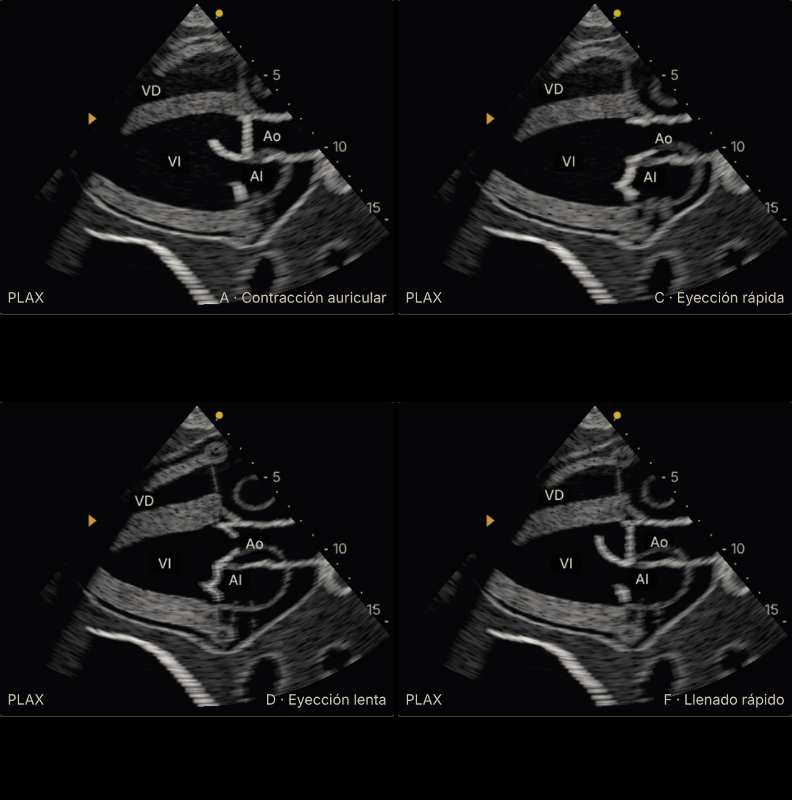
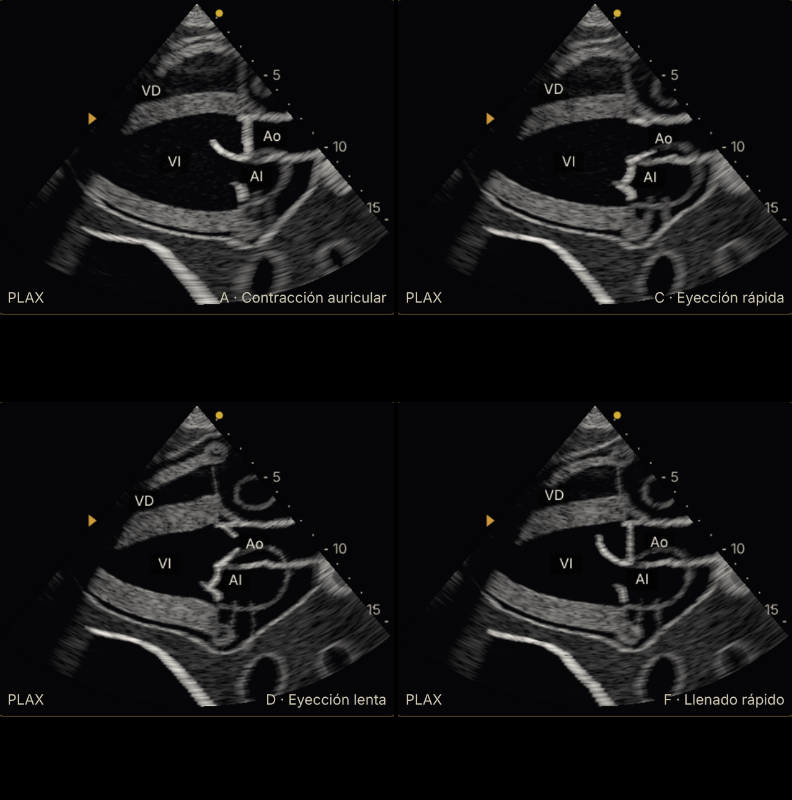
mv-eco-2a5 paso 6: rejuicio de realismo 9,50 (pasa el 9,5)
Claude-Session: https://claude.ai/code/session_01QiKC3AgYADeMutygoj3HRu

diff --git a/autonomo/bloques/mv-eco/capturas-realismo/mov/cifras-mov-doppler.md b/autonomo/bloques/mv-eco/capturas-realismo/mov/cifras-mov-doppler.md
@@ -57,7 +57,40 @@ Origen: «monitor» = texto que enseña la app (#cv-l-vi, #cv-d-resultado, #cv-m
 - TAPSE: 9.1 mm  _[anatomia.mjs]_
 
 ## mov-tep-a4c (tep, g=1, a4c; recortes izquierda→derecha, arriba→abajo: A, C, D, F)
-- A · telediástole: VI 29 mL · 2 mmHg · VD 218 mL · 17 mmHg · Ao 58 mmHg · AP 23 · rótulo «A · Contracción auricular»  _[monitor]_
+- A · telediástole: VI 30 mL · 2 mmHg · VD 218 mL · 17 mmHg · Ao 57 mmHg · AP 23 · rótulo «A · Contracción auricular»  _[monitor]_
+- C · sístole media: VI 39 mL · 64 mmHg · VD 207 mL · 29 mmHg · Ao 63 mmHg · AP 30 · rótulo «C · Eyección rápida»  _[monitor]_
+- D · fin de sístole: VI 25 mL · 64 mmHg · VD 198 mL · 37 mmHg · Ao 65 mmHg · AP 39 · rótulo «D · Eyección lenta»  _[monitor]_
+- F · llenado rápido: VI 43 mL · 3 mmHg · VD 218 mL · 17 mmHg · Ao 56 mmHg · AP 21 · rótulo «F · Llenado rápido»  _[monitor]_
+- VTD (VI, máximo del latido): 46 mL  _[motor.onda (volumen del VI)]_
+- VTS (VI, mínimo del latido): 24 mL  _[motor.onda (volumen del VI)]_
+- FEVI: 47 %  _[derivado (VTD−VTS)/VTD]_
+- Último latido: PA 66/53 (PAM 59) · FC 118 · GC 2.4 L/min · PVC 9  _[monitor]_
+- TAPSE: 6.7 mm  _[anatomia.mjs]_
+
+## mov-normal-a4cvd (normal, a4cVd; recortes izquierda→derecha, arriba→abajo: A, C, D, F)
+- A · telediástole: VI 119 mL · 10 mmHg · VD 138 mL · 6 mmHg · Ao 72 mmHg · AP 13 · rótulo «A · Contracción auricular»  _[monitor]_
+- C · sístole media: VI 88 mL · 97 mmHg · VD 119 mL · 18 mmHg · Ao 95 mmHg · AP 15 · rótulo «C · Eyección rápida»  _[monitor]_
+- D · fin de sístole: VI 47 mL · 103 mmHg · VD 76 mL · 20 mmHg · Ao 104 mmHg · AP 21 · rótulo «D · Eyección lenta»  _[monitor]_
+- F · llenado rápido: VI 71 mL · 4 mmHg · VD 87 mL · 2 mmHg · Ao 86 mmHg · AP 18 · rótulo «F · Llenado rápido»  _[monitor]_
+- VTD (VI, máximo del latido): 120 mL  _[motor.onda (volumen del VI)]_
+- VTS (VI, mínimo del latido): 45 mL  _[motor.onda (volumen del VI)]_
+- FEVI: 62 %  _[derivado (VTD−VTS)/VTD]_
+- Último latido: PA 105/67 (PAM 86) · FC 69 · GC 5.0 L/min · PVC 4  _[monitor]_
+- TAPSE: 23 mm  _[anatomia.mjs]_
+
+## mov-hp-a4cvd (hpcronica, g=1, a4cVd; recortes izquierda→derecha, arriba→abajo: A, C, D, F)
+- A · telediástole: VI 59 mL · 9 mmHg · VD 227 mL · 20 mmHg · Ao 70 mmHg · AP 43 · rótulo «A · Contracción auricular»  _[monitor]_
+- C · sístole media: VI 49 mL · 82 mmHg · VD 214 mL · 64 mmHg · Ao 81 mmHg · AP 68 · rótulo «C · Eyección rápida»  _[monitor]_
+- D · fin de sístole: VI 27 mL · 84 mmHg · VD 201 mL · 99 mmHg · Ao 84 mmHg · AP 99 · rótulo «D · Eyección lenta»  _[monitor]_
+- F · llenado rápido: VI 29 mL · 6 mmHg · VD 195 mL · 20 mmHg · Ao 74 mmHg · AP 55 · rótulo «F · Llenado rápido»  _[monitor]_
+- VTD (VI, máximo del latido): 60 mL  _[motor.onda (volumen del VI)]_
+- VTS (VI, mínimo del latido): 26 mL  _[motor.onda (volumen del VI)]_
+- FEVI: 56 %  _[derivado (VTD−VTS)/VTD]_
+- Último latido: PA 86/67 (PAM 76) · FC 94 · GC 3.0 L/min · PVC 16  _[monitor]_
+- TAPSE: 9.1 mm  _[anatomia.mjs]_
+
+## mov-tep-a4cvd (tep, g=1, a4cVd; recortes izquierda→derecha, arriba→abajo: A, C, D, F)
+- A · telediástole: VI 30 mL · 2 mmHg · VD 218 mL · 17 mmHg · Ao 57 mmHg · AP 23 · rótulo «A · Contracción auricular»  _[monitor]_
 - C · sístole media: VI 39 mL · 64 mmHg · VD 207 mL · 29 mmHg · Ao 63 mmHg · AP 30 · rótulo «C · Eyección rápida»  _[monitor]_
 - D · fin de sístole: VI 25 mL · 64 mmHg · VD 198 mL · 37 mmHg · Ao 65 mmHg · AP 39 · rótulo «D · Eyección lenta»  _[monitor]_
 - F · llenado rápido: VI 43 mL · 3 mmHg · VD 218 mL · 17 mmHg · Ao 56 mmHg · AP 21 · rótulo «F · Llenado rápido»  _[monitor]_
@@ -80,26 +113,26 @@ Origen: «monitor» = texto que enseña la app (#cv-l-vi, #cv-d-resultado, #cv-m
 - Último latido: PA 66/53 (PAM 59) · FC 118 · GC 2.4 L/min · PVC 9  _[monitor]_
 
 ## d-mitral-normal (normal, preajuste mitral)
-- Resultado del Doppler: Mitral · ángulo haz-flujo 15° (se mide v·cos θ) E 66 cm/s · A 58 cm/s · E/A 1,13 (normal 1-1,5 en la Ficha 5; 0,69-2,73 a 20-60 años en Nagueh 2025 p. 551: dos fuentes, sin elegir ganadora) · TDE 192 ms (normal 140-250) Referencias de la Ficha 5 de Fisiopatología UCI · Cardiología. Las velocidades son del modelo (flujo del motor entre el área del anillo); el TDE sale de la inercia de la sangre que cruza la mitral (calibrada en el motor).  _[monitor]_
-- Medidas internas (E, A, E/A, TDE/DT, pico, ITV): {"tipo":"llenado","E":65.68,"A":58,"ea":1.13,"tde":192,"fusion":false}  _[monitor interno de la app (__eco.doppler.medidas); e′ no la da hoy]_
+- Resultado del Doppler: Mitral · ángulo haz-flujo 16° (se mide v·cos θ) E 68 cm/s · A 60 cm/s · E/A 1,13 (normal 1-1,5 en la Ficha 5; 0,69-2,73 a 20-60 años en Nagueh 2025 p. 551: dos fuentes, sin elegir ganadora) · TDE 192 ms (normal 140-250) Referencias de la Ficha 5 de Fisiopatología UCI · Cardiología. Las velocidades son del modelo (flujo del motor entre el área del anillo); el TDE sale de la inercia de la sangre que cruza la mitral (calibrada en el motor).  _[monitor]_
+- Medidas internas (E, A, E/A, TDE/DT, pico, ITV): {"tipo":"llenado","E":67.82,"A":59.89,"ea":1.13,"tde":192,"fusion":false}  _[monitor interno de la app (__eco.doppler.medidas); e′ no la da hoy]_
 - Último latido: PA 106/68 (PAM 87) · FC 71 · GC 5.1 L/min · PVC 4  _[monitor]_
 - TAPSE: 22.9 mm  _[anatomia.mjs]_
 
 ## d-mitral-dilatada (dilatada, g=1, preajuste mitral)
-- Resultado del Doppler: Mitral · ángulo haz-flujo 12° (se mide v·cos θ) E 74 cm/s · A 31 cm/s · E/A 2,35 (normal 1-1,5 en la Ficha 5; 0,69-2,73 a 20-60 años en Nagueh 2025 p. 551: dos fuentes, sin elegir ganadora) · TDE 132 ms (normal 140-250) Referencias de la Ficha 5 de Fisiopatología UCI · Cardiología. Las velocidades son del modelo (flujo del motor entre el área del anillo); el TDE sale de la inercia de la sangre que cruza la mitral (calibrada en el motor).  _[monitor]_
-- Medidas internas (E, A, E/A, TDE/DT, pico, ITV): {"tipo":"llenado","E":73.83,"A":31.36,"ea":2.35,"tde":132,"fusion":false}  _[monitor interno de la app (__eco.doppler.medidas); e′ no la da hoy]_
+- Resultado del Doppler: Mitral · ángulo haz-flujo 12° (se mide v·cos θ) E 74 cm/s · A 32 cm/s · E/A 2,35 (normal 1-1,5 en la Ficha 5; 0,69-2,73 a 20-60 años en Nagueh 2025 p. 551: dos fuentes, sin elegir ganadora) · TDE 132 ms (normal 140-250) Referencias de la Ficha 5 de Fisiopatología UCI · Cardiología. Las velocidades son del modelo (flujo del motor entre el área del anillo); el TDE sale de la inercia de la sangre que cruza la mitral (calibrada en el motor).  _[monitor]_
+- Medidas internas (E, A, E/A, TDE/DT, pico, ITV): {"tipo":"llenado","E":74.34,"A":31.58,"ea":2.35,"tde":132,"fusion":false}  _[monitor interno de la app (__eco.doppler.medidas); e′ no la da hoy]_
 - Último latido: PA 92/68 (PAM 80) · FC 85 · GC 3.7 L/min · PVC 9  _[monitor]_
 - TAPSE: 15.8 mm  _[anatomia.mjs]_
 
 ## d-mitral-fallo (fallo, g=1, preajuste mitral)
 - Resultado del Doppler: Mitral · ángulo haz-flujo 13° (se mide v·cos θ) Fusión E-A (FC alta): E/A y TDE no medibles. Velocidad pico de la onda fundida 41 cm/s Con la FC alta la contracción auricular empieza antes de que acabe el llenado rápido y las dos ondas se funden en una: no se separa la E de la A ni se mide el tiempo de desaceleración. Nagueh 2025 p. 547 · p. 557 (tabla 7). Origen: ficha.  _[monitor]_
-- Medidas internas (E, A, E/A, TDE/DT, pico, ITV): {"tipo":"llenado","E":35.34,"A":41.19,"ea":0.86,"tde":null,"fusion":true}  _[monitor interno de la app (__eco.doppler.medidas); e′ no la da hoy]_
+- Medidas internas (E, A, E/A, TDE/DT, pico, ITV): {"tipo":"llenado","E":35.31,"A":41.15,"ea":0.86,"tde":null,"fusion":true}  _[monitor interno de la app (__eco.doppler.medidas); e′ no la da hoy]_
 - Último latido: PA 64/53 (PAM 58) · FC 119 · GC 2.4 L/min · PVC 7  _[monitor]_
 - TAPSE: 9.9 mm  _[anatomia.mjs]_
 
 ## d-mitral-hipertrofia (hipertrofia, g=1, preajuste mitral)
-- Resultado del Doppler: Mitral · ángulo haz-flujo 17° (se mide v·cos θ) E 64 cm/s · A 46 cm/s · E/A 1,40 (normal 1-1,5 en la Ficha 5; 0,69-2,73 a 20-60 años en Nagueh 2025 p. 551: dos fuentes, sin elegir ganadora) · TDE 216 ms (normal 140-250) Referencias de la Ficha 5 de Fisiopatología UCI · Cardiología. Las velocidades son del modelo (flujo del motor entre el área del anillo); el TDE sale de la inercia de la sangre que cruza la mitral (calibrada en el motor).  _[monitor]_
-- Medidas internas (E, A, E/A, TDE/DT, pico, ITV): {"tipo":"llenado","E":64.36,"A":45.83,"ea":1.4,"tde":216,"fusion":false}  _[monitor interno de la app (__eco.doppler.medidas); e′ no la da hoy]_
+- Resultado del Doppler: Mitral · ángulo haz-flujo 17° (se mide v·cos θ) E 65 cm/s · A 46 cm/s · E/A 1,40 (normal 1-1,5 en la Ficha 5; 0,69-2,73 a 20-60 años en Nagueh 2025 p. 551: dos fuentes, sin elegir ganadora) · TDE 216 ms (normal 140-250) Referencias de la Ficha 5 de Fisiopatología UCI · Cardiología. Las velocidades son del modelo (flujo del motor entre el área del anillo); el TDE sale de la inercia de la sangre que cruza la mitral (calibrada en el motor).  _[monitor]_
+- Medidas internas (E, A, E/A, TDE/DT, pico, ITV): {"tipo":"llenado","E":64.96,"A":46.25,"ea":1.4,"tde":216,"fusion":false}  _[monitor interno de la app (__eco.doppler.medidas); e′ no la da hoy]_
 - Último latido: PA 97/71 (PAM 84) · FC 76 · GC 3.6 L/min · PVC 7  _[monitor]_
 - TAPSE: 13.5 mm  _[anatomia.mjs]_
 
@@ -116,20 +149,20 @@ Origen: «monitor» = texto que enseña la app (#cv-l-vi, #cv-d-resultado, #cv-m
 - TAPSE: 15.8 mm  _[anatomia.mjs]_
 
 ## d-regmitral-fallo (fallo, g=1, preajuste regmitral)
-- Resultado del Doppler: Mitral · ángulo haz-flujo 13° (se mide v·cos θ) Fusión E-A (FC alta): E/A y TDE no medibles. Velocidad pico de la onda fundida 41 cm/s Con la FC alta la contracción auricular empieza antes de que acabe el llenado rápido y las dos ondas se funden en una: no se separa la E de la A ni se mide el tiempo de desaceleración. Nagueh 2025 p. 547 · p. 557 (tabla 7). Origen: ficha.  _[monitor]_
-- Medidas internas (E, A, E/A, TDE/DT, pico, ITV): {"tipo":"llenado","E":35.31,"A":41.15,"ea":0.86,"tde":null,"fusion":true}  _[monitor interno de la app (__eco.doppler.medidas); e′ no la da hoy]_
-- Último latido: PA 64/53 (PAM 58) · FC 119 · GC 2.4 L/min · PVC 7  _[monitor]_
-- TAPSE: 9.9 mm  _[anatomia.mjs]_
+- Resultado del Doppler: Insuficiencia mitral · chorro · ángulo haz-flujo 26° (se mide v·cos θ) Chorro sistólico hacia la AI (se aleja de la sonda): en la muestra, pico 222 cm/s · ITV 58,9 cm En el orificio el chorro llega a 247 cm/s (ΔP VI−AI ≈ 4v² = 24 mmHg). Vena contracta 0,50 cm (calculada del EROA como un orificio redondo, no medida en la imagen; Zoghbi: <0,3 cm leve, ≥0,7 cm grave; intermedia: los valores intermedios se solapan entre grados, confírmalo con otros métodos). Tras ella el chorro se abre en cono y arrastra sangre: ocupa más AI cuanto más EROA, pero el área del chorro no sirve sola para graduar. En la IM secundaria el orificio es elíptico y la vena contracta en 2D la subestima. Zoghbi p. 328 · p. 308 (área del chorro) Q = EROA · 50 · √ΔP del motor; v = √ΔP / 2 m/s (Bernoulli). En el CW el haz atraviesa el chorro y se lee su máximo × cos θ (la línea de base sube para aprovechar la pantalla; escala e inclinación ilustrativas).  _[monitor]_
+- Medidas internas (E, A, E/A, TDE/DT, pico, ITV): {"tipo":"regurgitacion","pico":222.35,"itv":58.86}  _[monitor interno de la app (__eco.doppler.medidas); e′ no la da hoy]_
+- Último latido: PA 61/50 (PAM 55) · FC 121 · GC 2.3 L/min · PVC 7  _[monitor]_
+- TAPSE: 8.8 mm  _[anatomia.mjs]_
 
 ## d-it-cw-normal (normal, preajuste regtricus)
-- Resultado del Doppler: Insuficiencia tricuspídea · chorro · ángulo haz-flujo 18° (se mide v·cos θ) Chorro sistólico hacia la AD (se aleja de la sonda): en la muestra, vIT 1,90 m/s · ITV 67,2 cm PSAP estimada = 4·vIT² + PVC = 20 mmHg (vIT corregida por el ángulo: 1,99 m/s; sin corregir sería 19) (normal: vIT ≤ 2,8 m/s; > 3,4 m/s sugiere hipertensión pulmonar, ESC/ERS 2022). v = √(ΔP VD−AD / 4) con la presión del motor; el espectro muestra v·cos θ (el haz no está alineado del todo con el chorro) y la PSAP se corrige dividiendo por cos θ, como al alinear el haz. La vIT es el pico del latido (la máxima presión VD − AD de ese instante, con la AD de ese instante); la PSAP suma la PVC media, por eso difiere unos mmHg de la presión máxima del VD del motor. Ilustrativo.  _[monitor]_
+- Resultado del Doppler: Insuficiencia tricuspídea · chorro · ángulo haz-flujo 12° (se mide v·cos θ) Chorro sistólico hacia la AD (se aleja de la sonda): en la muestra, vIT 1,95 m/s · ITV 69,0 cm PSAP estimada = 4·vIT² + PVC = 20 mmHg (vIT corregida por el ángulo: 1,99 m/s; sin corregir sería 20) (normal: vIT ≤ 2,8 m/s; > 3,4 m/s sugiere hipertensión pulmonar, ESC/ERS 2022). v = √(ΔP VD−AD / 4) con la presión del motor; el espectro muestra v·cos θ (el haz no está alineado del todo con el chorro) y la PSAP se corrige dividiendo por cos θ, como al alinear el haz. La vIT es el pico del latido (la máxima presión VD − AD de ese instante, con la AD de ese instante); la PSAP suma la PVC media, por eso difiere unos mmHg de la presión máxima del VD del motor. Ilustrativo.  _[monitor]_
 - Medidas internas (E, A, E/A, TDE/DT, pico, ITV): {"tipo":"regurgitacion","pico":189.76,"itv":67.23,"vIT":1.9,"psap":18.97}  _[monitor interno de la app (__eco.doppler.medidas); e′ no la da hoy]_
 - Último latido: PA 105/68 (PAM 86) · FC 72 · GC 5.0 L/min · PVC 5  _[monitor]_
 - TAPSE: 22.2 mm  _[anatomia.mjs]_
 
 ## d-it-cw-hpcronica (hpcronica, g=1, preajuste regtricus)
-- Resultado del Doppler: Insuficiencia tricuspídea · chorro · ángulo haz-flujo 17° (se mide v·cos θ) Chorro sistólico hacia la AD (se aleja de la sonda): en la muestra, vIT 4,07 m/s · ITV 147,0 cm PSAP estimada = 4·vIT² + PVC = 89 mmHg (vIT corregida por el ángulo: 4,27 m/s; sin corregir sería 82) (normal: vIT ≤ 2,8 m/s; > 3,4 m/s sugiere hipertensión pulmonar, ESC/ERS 2022). v = √(ΔP VD−AD / 4) con la presión del motor; el espectro muestra v·cos θ (el haz no está alineado del todo con el chorro) y la PSAP se corrige dividiendo por cos θ, como al alinear el haz. La vIT es el pico del latido (la máxima presión VD − AD de ese instante, con la AD de ese instante); la PSAP suma la PVC media, por eso difiere unos mmHg de la presión máxima del VD del motor. Ilustrativo.  _[monitor]_
-- Medidas internas (E, A, E/A, TDE/DT, pico, ITV): {"tipo":"regurgitacion","pico":407.41,"itv":147.03,"vIT":4.07,"psap":82.2}  _[monitor interno de la app (__eco.doppler.medidas); e′ no la da hoy]_
+- Resultado del Doppler: Insuficiencia tricuspídea · chorro · ángulo haz-flujo 17° (se mide v·cos θ) Chorro sistólico hacia la AD (se aleja de la sonda): en la muestra, vIT 4,08 m/s · ITV 147,0 cm PSAP estimada = 4·vIT² + PVC = 89 mmHg (vIT corregida por el ángulo: 4,27 m/s; sin corregir sería 82) (normal: vIT ≤ 2,8 m/s; > 3,4 m/s sugiere hipertensión pulmonar, ESC/ERS 2022). v = √(ΔP VD−AD / 4) con la presión del motor; el espectro muestra v·cos θ (el haz no está alineado del todo con el chorro) y la PSAP se corrige dividiendo por cos θ, como al alinear el haz. La vIT es el pico del latido (la máxima presión VD − AD de ese instante, con la AD de ese instante); la PSAP suma la PVC media, por eso difiere unos mmHg de la presión máxima del VD del motor. Ilustrativo.  _[monitor]_
+- Medidas internas (E, A, E/A, TDE/DT, pico, ITV): {"tipo":"regurgitacion","pico":407.5,"itv":147.04,"vIT":4.08,"psap":82.23}  _[monitor interno de la app (__eco.doppler.medidas); e′ no la da hoy]_
 - Último latido: PA 84/65 (PAM 74) · FC 93 · GC 2.9 L/min · PVC 16  _[monitor]_
 - TAPSE: 9.1 mm  _[anatomia.mjs]_
 

diff --git a/autonomo/bloques/mv-eco/paso6/juicio-2.md b/autonomo/bloques/mv-eco/paso6/juicio-2.md
@@ -1,0 +1,20 @@
+# Juicio de realismo · dibujo 2 · paso 6, vuelta 2 (profesor fable, 01/11, versión 20261101-21, rama auto/mv-eco-2a5)
+Capturas regeneradas hoy (0 errores de consola): `capturas-realismo/*.png` (cifras.md, `pad` ya sale: PA 105/67), `mov/*.png` (cifras-mov-doppler.md), `mov-zoom/mov-{tep,hp,normal}-a4cvd.png` (ZOOM=1). Barrido del mando del TEP: `herramientas/barrido-tep.mjs`. Referencias reales, las mismas del juicio 1: Zoghbi 2017 Fig. 29-30 (PDF p. 49), Mitchell 2019 A4C reales (PDF p. 29) y foco VD (p. 26), ESC/ERS 2022 Tabla 10 (PDF p. 28 = pág. 3645). No se juzga como hecho lo que vive en la rama del reloj auricular (la «W» de la IT del TEP y la doble joroba del normal); el ápex del McConnell en 5,7 mm es decisión del director.
+| Criterio | juicio 1 | ahora | Qué falta para el 10 |
+|---|---|---|---|
+| 1 Proporciones | 9,5 | 9,5 | En el A4C el anillo de la aorta descendente ya es fino y tenue ✓ (tep-a4c). Pero en «A4C foco VD» (mov-tep-a4cvd, mov-normal-a4cvd) sigue saliendo como un anillo doble grande y brillante abajo a la derecha: el plano girado corta la aorta oblicua y `AORTA_DESC_NUEVO` no la apaga ahí. Sigue el TEP g=1 con VD 218 / VI 46 mL (VD/VI 4,77 en el barrido; la clínica da 1-2) |
+| 2 Forma | 9,5 | 9,5 | Sin cambios de forma esta vuelta. Foco VD como Mitchell p. 26 (VD en el centro, VI parcial, sin «Ao») ✓. Queda: la AI de la dilatada «en caja» con esquinas rectas (dilatada-a4c), VI normal 1,48 (ilustrativo 1,6-2) y, en el normal del foco VD, el aparato mitral como un triángulo macizo muy brillante (fases A y C) |
+| 3 Textura | 9,5 | 9,75 | SC4C: la caída lateral ya es continua, sin rayas ✓ (derrame-sc4c). AI del TEP más tenue que el VI ✓. CW con borde denso e interior tenue ✓ (los tres CW). Queda: la AI de la dilatada sigue tan brillante como el VI (v2g lo admite: no medido en píxeles); el zoom ×2 es un escalado CSS: imagen blanda y rótulos del lienzo el doble de grandes (mov-zoom) |
+| 4 Movimiento | 9,25 | 9,5 | Vista «A4C foco VD» (el TEP la abre por defecto) ✓ y Zoom ×2: ápex−media 11 px a 390 px (zoom-informe) ✓; en los 4 fotogramas con zoom el ápex se cierra en C-D y la pared media no se mueve, pero sin saber qué buscar sigue siendo discreto. Queda: el zoom recorta AD y AI (sin referencia del anillo tricuspídeo) y el cierre apical sigue siendo del dibujo (`APEX_CIERRE`), no volumen regional del motor (contrato.mjs `regionalDe`) |
+| 5 Doppler y modo M | 9,0 | 9,25 | Escala automática ✓ (HP −408 en ±400: 65 % de su lado; IM 222 en ±250 sin recorte ✓), llenado E/A positivo sobre la base ✓, densidad modal ✓, el texto de gravedad ya no tapa el espectro con M o D abiertos ✓ (m-tapse-tep, d-it-cw-tep). Queda: (a) TEP: pico 250,8 > 95 % de 250 → salta a ±400 y el chorro ocupa el 40 % (d-it-cw-tep): el escalón debería admitir ≤100 % o ir de 50 en 50; (b) las E/A son púas de ~50 ms, no las ondas anchas de Zoghbi Fig. 29 (doppler.mjs `velCwReg`: duración del llenado); (c) IM fallo: meseta plana en −50 cm/s ~100 ms tras el domo (d-regmitral-fallo), un escalón que la CW real no tiene; (d) pendiente de la otra rama: «W» y diástole negativa (−100/−200) del TEP, hombro de la HP, doble joroba del normal |
+| 6 Extremos | 9,0 | 9,5 | Barrido del TEP medido hoy: g=0 ≡ normal (FC 71, PAM 87, GC 5,1, PSAP 22, FEVD 53, TAPSE 22,9, VD/VI 1,15) ✓; PAM, GC, FEVD, TAPSE y VD/VI monótonos de 0 a 1 ✓; g=1 PA 66/53, FC 118, PSAP 44: paciente posible ✓; sticky arreglado (`.cv-sin-fijo`) ✓; `pad` arreglado ✓. Queda: E/e′ va 5,3 (g 0,7) → 8,9 (0,8) → 7,0 (1), no monótono; el gradiente VD−AD diastólico del TEP (motor, otra rama); VD/VI 4,77 en g=1 |
+**Media 9,50 (antes 9,29) · pasa el 9,5 justo** (ninguno <9; media = 9,50). Lo que lo sostiene es el dibujo (foco VD, zoom, escala, E/A, modal, SC4C, aorta, AI del TEP, sticky); lo que lo frena es el motor del VD, que está en la otra rama: hasta que se fusione, el CW del TEP sigue siendo lo menos real de la pantalla.
+## Lo que falta para 9,85-10, en orden
+1. **Motor** · motor.mjs (reloj auricular / `tricRev`, rama aparte): base limpia del CW en TEP y HP y pico único; normal en domo. Es el grueso del criterio 5.
+2. **Dibujo** · simulador.mjs `escalarPorPico`: umbral del 95 % → ≤100 % (o escalones ±300/±350) para que el TEP de 250 quede en ±250 y ocupe ≥60 %.
+3. **Dibujo** · doppler.mjs `velCwReg`: ondas E y A con su duración real (E ~200 ms, A ~150 ms), no púas; quitar la meseta de −50 cm/s tras el domo de la IM (fase isovolumétrica).
+4. **Dibujo** · ecografia.mjs (rama `a4cVd` de `planoVista`) + `AORTA_DESC_NUEVO`: apagar y afinar la aorta descendente también en el foco VD (hoy anillo doble brillante).
+5. **Dibujo** · ecografia.mjs `regionZoom`: encuadre del foco VD que conserve el anillo tricuspídeo y la AD; re-render del lienzo a ×2 (no escalado CSS) y rótulos a tamaño fijo.
+6. **Dibujo** · corazon-geo.mjs (aurículas) y eco-tejidos.js: AI de la dilatada sin esquinas y 3 dB por debajo del VI, medido en píxeles; aparato mitral del normal menos macizo.
+7. **Motor** · escenarios.mjs (TEP): VD/VI de g=1 hacia ≤3 (VI 46 mL es muy pequeño) y E/e′ monótono entre 0,7 y 1.
+8. **Motor/dibujo** · contrato.mjs `regionalDe` → corazon-geo.mjs: cierre apical del VD por volumen regional del motor en vez de `APEX_CIERRE`.

diff --git a/autonomo/bloques/mv-eco/capturas-realismo/cifras.md b/autonomo/bloques/mv-eco/capturas-realismo/cifras.md
@@ -10,7 +10,7 @@
 - Aorta: 72 mmHg · AP 13
 - Aurículas: AI 25 · AD 18 mL
 - VI/VD telediastólico (el que dibuja la imagen): VI 120 mL · VD 138 mL
-- motor: FC 69 · PAM 86 · PA 105/undefined · GC 5.03 · PVC 4.3
+- motor: FC 69 · PAM 86 · PA 105/67 · GC 5.03 · PVC 4.3
 - pantalla: mezcla
 
 ## normal-psax (normal, psaxPm, dibujo 2)
@@ -23,7 +23,7 @@
 - Aorta: 72 mmHg · AP 13
 - Aurículas: AI 25 · AD 18 mL
 - VI/VD telediastólico (el que dibuja la imagen): VI 120 mL · VD 138 mL
-- motor: FC 69 · PAM 86 · PA 105/undefined · GC 5.03 · PVC 4.3
+- motor: FC 69 · PAM 86 · PA 105/67 · GC 5.03 · PVC 4.3
 - pantalla: mezcla
 
 ## normal-plax (normal, plax, dibujo 2)
@@ -36,7 +36,7 @@
 - Aorta: 72 mmHg · AP 13
 - Aurículas: AI 25 · AD 18 mL
 - VI/VD telediastólico (el que dibuja la imagen): VI 120 mL · VD 138 mL
-- motor: FC 69 · PAM 86 · PA 105/undefined · GC 5.03 · PVC 4.3
+- motor: FC 69 · PAM 86 · PA 105/67 · GC 5.03 · PVC 4.3
 - pantalla: mezcla
 
 ## hp-a4c (hpcronica, g=1, a4c, dibujo 2)
@@ -49,7 +49,7 @@
 - Aorta: 70 mmHg · AP 43
 - Aurículas: AI 23 · AD 42 mL
 - VI/VD telediastólico (el que dibuja la imagen): VI 60 mL · VD 227 mL
-- motor: FC 94 · PAM 76 · PA 86/undefined · GC 3.02 · PVC 15.5
+- motor: FC 94 · PAM 76 · PA 86/67 · GC 3.02 · PVC 15.5
 - pantalla: mezcla
 
 ## hp-psax (hpcronica, g=1, psaxPm, dibujo 2)
@@ -62,7 +62,7 @@
 - Aorta: 70 mmHg · AP 43
 - Aurículas: AI 23 · AD 42 mL
 - VI/VD telediastólico (el que dibuja la imagen): VI 60 mL · VD 227 mL
-- motor: FC 94 · PAM 76 · PA 86/undefined · GC 3.02 · PVC 15.5
+- motor: FC 94 · PAM 76 · PA 86/67 · GC 3.02 · PVC 15.5
 - pantalla: mezcla
 
 ## tep-a4c (tep, g=1, a4c, dibujo 2)
@@ -75,7 +75,7 @@
 - Aorta: 57 mmHg · AP 23
 - Aurículas: AI 29 · AD 32 mL
 - VI/VD telediastólico (el que dibuja la imagen): VI 46 mL · VD 218 mL
-- motor: FC 118 · PAM 59 · PA 66/undefined · GC 2.37 · PVC 9.4
+- motor: FC 118 · PAM 59 · PA 66/53 · GC 2.37 · PVC 9.4
 - pantalla: mezcla
 
 ## tep-psax (tep, g=1, psaxPm, dibujo 2)
@@ -88,7 +88,7 @@
 - Aorta: 57 mmHg · AP 23
 - Aurículas: AI 29 · AD 32 mL
 - VI/VD telediastólico (el que dibuja la imagen): VI 46 mL · VD 218 mL
-- motor: FC 118 · PAM 59 · PA 66/undefined · GC 2.37 · PVC 9.4
+- motor: FC 118 · PAM 59 · PA 66/53 · GC 2.37 · PVC 9.4
 - pantalla: mezcla
 
 ## dilatada-a4c (dilatada, g=1, a4c, dibujo 2)
@@ -101,7 +101,7 @@
 - Aorta: 73 mmHg · AP 31
 - Aurículas: AI 71 · AD 22 mL
 - VI/VD telediastólico (el que dibuja la imagen): VI 211 mL · VD 155 mL
-- motor: FC 85 · PAM 80 · PA 92/undefined · GC 3.75 · PVC 9.3
+- motor: FC 85 · PAM 80 · PA 92/68 · GC 3.75 · PVC 9.3
 - pantalla: mezcla
 
 ## derrame-sc4c (derrame, g=1, sc4c, dibujo 2)
@@ -114,7 +114,7 @@
 - Aorta: 58 mmHg · AP 14
 - Aurículas: AI 30 · AD 18 mL
 - VI/VD telediastólico (el que dibuja la imagen): VI 44 mL · VD 46 mL
-- motor: FC 118 · PAM 60 · PA 66/undefined · GC 2.36 · PVC 10
+- motor: FC 118 · PAM 60 · PA 66/54 · GC 2.36 · PVC 10
 - pantalla: mezcla
 
 ## hipertrofia-plax (hipertrofia, g=1, plax, dibujo 2)
@@ -127,7 +127,7 @@
 - Aorta: 75 mmHg · AP 29
 - Aurículas: AI 50 · AD 23 mL
 - VI/VD telediastólico (el que dibuja la imagen): VI 88 mL · VD 162 mL
-- motor: FC 76 · PAM 84 · PA 97/undefined · GC 3.63 · PVC 6.5
+- motor: FC 76 · PAM 84 · PA 97/71 · GC 3.63 · PVC 6.5
 - pantalla: mezcla
 
 ## hp-a4c-dibujo-hoy (hpcronica, g=1, a4c, dibujo 1)
@@ -140,7 +140,7 @@
 - Aorta: 70 mmHg · AP 43
 - Aurículas: AI 23 · AD 42 mL
 - VI/VD telediastólico (el que dibuja la imagen): VI 60 mL · VD 227 mL
-- motor: FC 94 · PAM 76 · PA 86/undefined · GC 3.02 · PVC 15.5
+- motor: FC 94 · PAM 76 · PA 86/67 · GC 3.02 · PVC 15.5
 - pantalla: mezcla
 
 ## Errores de consola

diff --git a/autonomo/bloques/mv-eco/capturas-realismo/mov-zoom/cifras-mov-doppler-parcial.md b/autonomo/bloques/mv-eco/capturas-realismo/mov-zoom/cifras-mov-doppler-parcial.md
@@ -1,0 +1,38 @@
+# Cifras de la app en cada captura de movimiento y Doppler (dibujo 2, 390 px)
+Origen: «monitor» = texto que enseña la app (#cv-l-vi, #cv-d-resultado, #cv-m-resultado, #cv-l-lat); «derivado» = cuenta sobre cifras del monitor; «anatomia.mjs» = tapseDeLatido(motor.ultimo) porque la app solo lo enseña al poner calibres.
+
+## mov-normal-a4cvd (normal, a4cVd; recortes izquierda→derecha, arriba→abajo: A, C, D, F)
+- A · telediástole: VI 119 mL · 10 mmHg · VD 138 mL · 6 mmHg · Ao 71 mmHg · AP 13 · rótulo «A · Contracción auricular»  _[monitor]_
+- C · sístole media: VI 88 mL · 96 mmHg · VD 119 mL · 18 mmHg · Ao 95 mmHg · AP 15 · rótulo «C · Eyección rápida»  _[monitor]_
+- D · fin de sístole: VI 47 mL · 103 mmHg · VD 77 mL · 20 mmHg · Ao 103 mmHg · AP 21 · rótulo «D · Eyección lenta»  _[monitor]_
+- F · llenado rápido: VI 71 mL · 4 mmHg · VD 87 mL · 2 mmHg · Ao 86 mmHg · AP 18 · rótulo «F · Llenado rápido»  _[monitor]_
+- VTD (VI, máximo del latido): 120 mL  _[motor.onda (volumen del VI)]_
+- VTS (VI, mínimo del latido): 45 mL  _[motor.onda (volumen del VI)]_
+- FEVI: 63 %  _[derivado (VTD−VTS)/VTD]_
+- Último latido: PA 105/66 (PAM 86) · FC 69 · GC 5.1 L/min · PVC 4  _[monitor]_
+- TAPSE: 23 mm  _[anatomia.mjs]_
+
+## mov-hp-a4cvd (hpcronica, g=1, a4cVd; recortes izquierda→derecha, arriba→abajo: A, C, D, F)
+- A · telediástole: VI 59 mL · 9 mmHg · VD 227 mL · 20 mmHg · Ao 70 mmHg · AP 43 · rótulo «A · Contracción auricular»  _[monitor]_
+- C · sístole media: VI 49 mL · 82 mmHg · VD 214 mL · 64 mmHg · Ao 81 mmHg · AP 68 · rótulo «C · Eyección rápida»  _[monitor]_
+- D · fin de sístole: VI 27 mL · 84 mmHg · VD 201 mL · 99 mmHg · Ao 84 mmHg · AP 99 · rótulo «D · Eyección lenta»  _[monitor]_
+- F · llenado rápido: VI 29 mL · 6 mmHg · VD 195 mL · 20 mmHg · Ao 74 mmHg · AP 55 · rótulo «F · Llenado rápido»  _[monitor]_
+- VTD (VI, máximo del latido): 60 mL  _[motor.onda (volumen del VI)]_
+- VTS (VI, mínimo del latido): 26 mL  _[motor.onda (volumen del VI)]_
+- FEVI: 56 %  _[derivado (VTD−VTS)/VTD]_
+- Último latido: PA 86/67 (PAM 76) · FC 94 · GC 3.0 L/min · PVC 16  _[monitor]_
+- TAPSE: 9.1 mm  _[anatomia.mjs]_
+
+## mov-tep-a4cvd (tep, g=1, a4cVd; recortes izquierda→derecha, arriba→abajo: A, C, D, F)
+- A · telediástole: VI 30 mL · 2 mmHg · VD 218 mL · 17 mmHg · Ao 57 mmHg · AP 23 · rótulo «A · Contracción auricular»  _[monitor]_
+- C · sístole media: VI 39 mL · 64 mmHg · VD 207 mL · 29 mmHg · Ao 63 mmHg · AP 30 · rótulo «C · Eyección rápida»  _[monitor]_
+- D · fin de sístole: VI 25 mL · 64 mmHg · VD 198 mL · 37 mmHg · Ao 65 mmHg · AP 39 · rótulo «D · Eyección lenta»  _[monitor]_
+- F · llenado rápido: VI 43 mL · 3 mmHg · VD 218 mL · 17 mmHg · Ao 56 mmHg · AP 21 · rótulo «F · Llenado rápido»  _[monitor]_
+- VTD (VI, máximo del latido): 46 mL  _[motor.onda (volumen del VI)]_
+- VTS (VI, mínimo del latido): 24 mL  _[motor.onda (volumen del VI)]_
+- FEVI: 47 %  _[derivado (VTD−VTS)/VTD]_
+- Último latido: PA 66/53 (PAM 59) · FC 118 · GC 2.4 L/min · PVC 9  _[monitor]_
+- TAPSE: 6.7 mm  _[anatomia.mjs]_
+
+## Errores de consola
+ninguno
